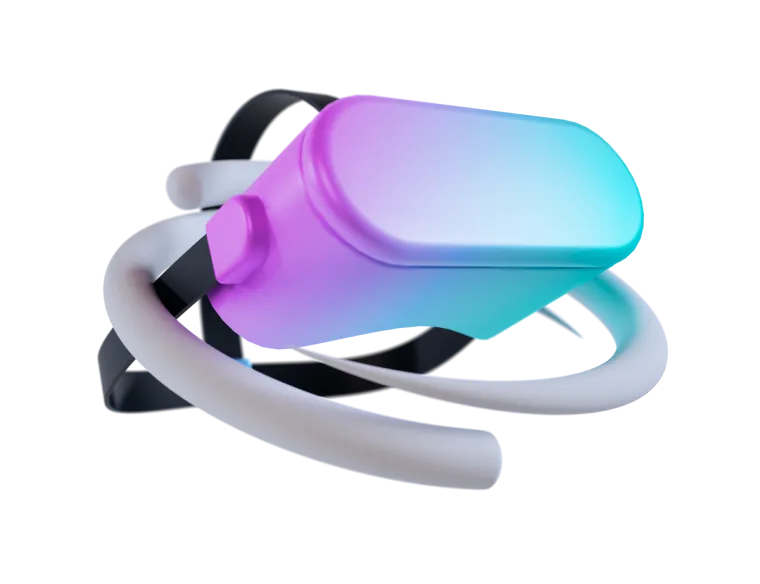
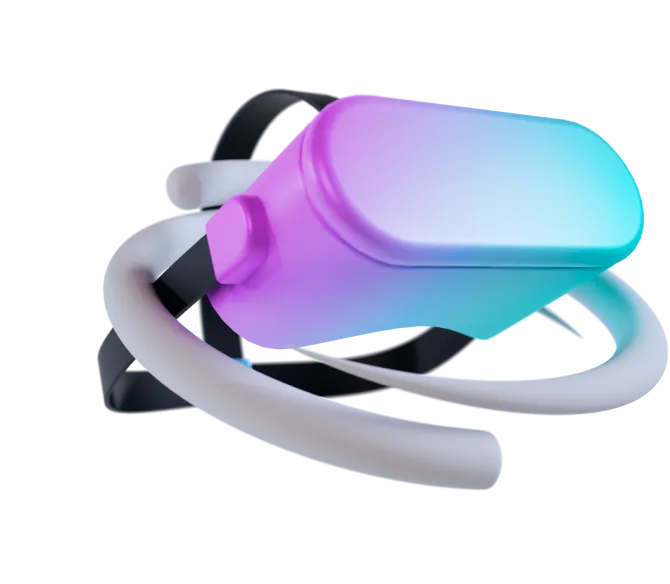
bug marge

Changed region(s): [[0.1194, 0.1541, 1.0, 0.863]]

diff --git a/src/css/components/hero.css b/src/css/components/hero.css
@@ -29,9 +29,8 @@
     position: absolute;
     z-index: 1;
     top: 365px;
-    width: 380px;
-    height: 292px;
-    padding-left: 50px;
+    width: 335px;
+    height: auto;
     animation: bounce 2s infinite;
 }
 

diff --git a/src/css/layout/header.css b/src/css/layout/header.css
@@ -7,7 +7,6 @@
     margin-bottom: 0px;
     background-color: var(--Header);
     padding-top: 50px ;
-    gap: 260px;
     right: 0;
     left: 0;
     z-index: 10;
